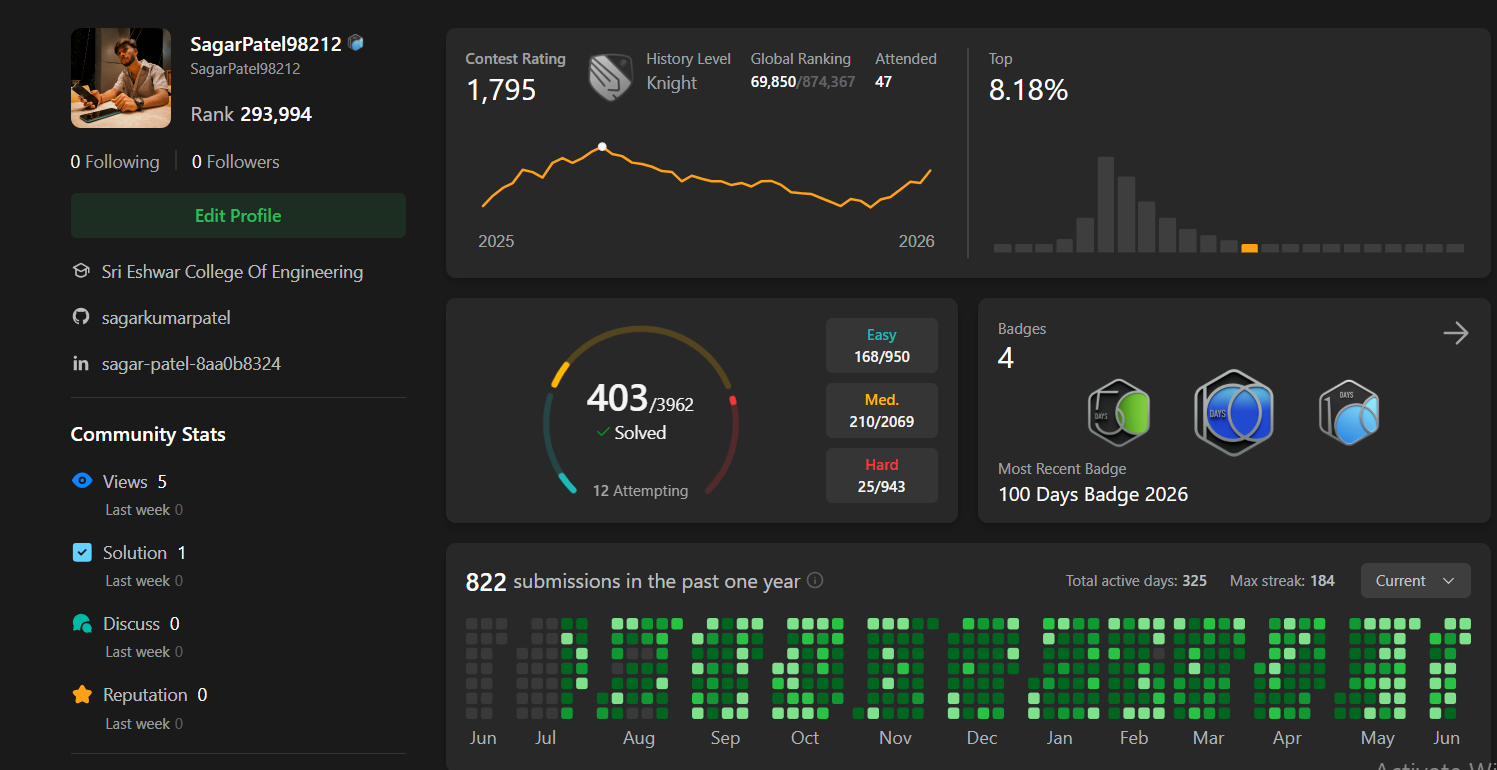
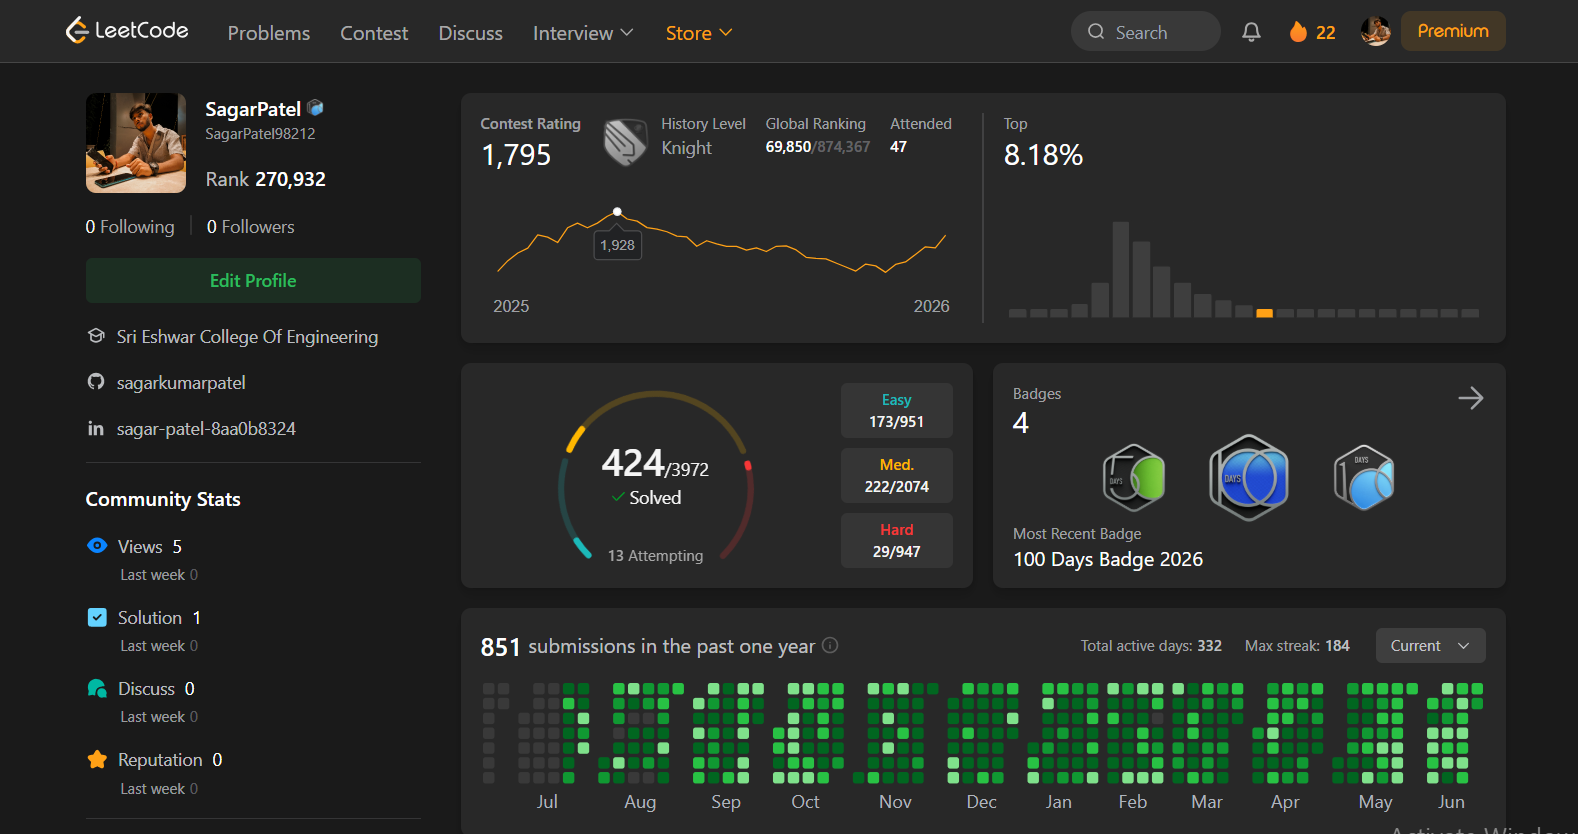
updating the leetcode image

diff --git a/app/lib/data.ts b/app/lib/data.ts
@@ -197,7 +197,7 @@ export const achievements: Achievement[] = [
   {
     id: 'iit-hyderabad',
     title: 'Winner - Tech Expo 2026',
-    description: 'Secured first place at IIT Hyderabad Tech Expo for innovative tech project',
+    description: 'Secured Second place at IIT Hyderabad Tech Expo for innovative tech project',
     date: '2026',
     type: 'hackathon',
     image: '/achievements/Thrust_Expo.jpg',  // Add your photo/certificate image
